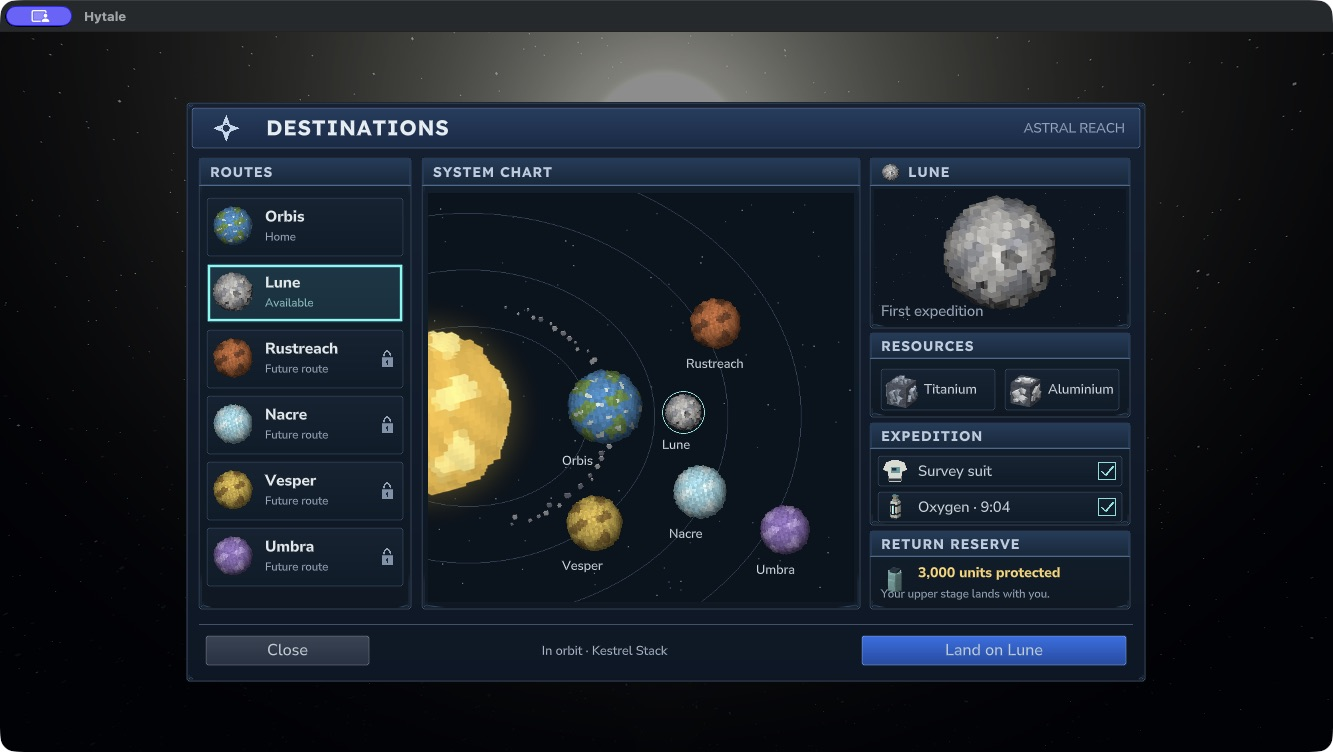
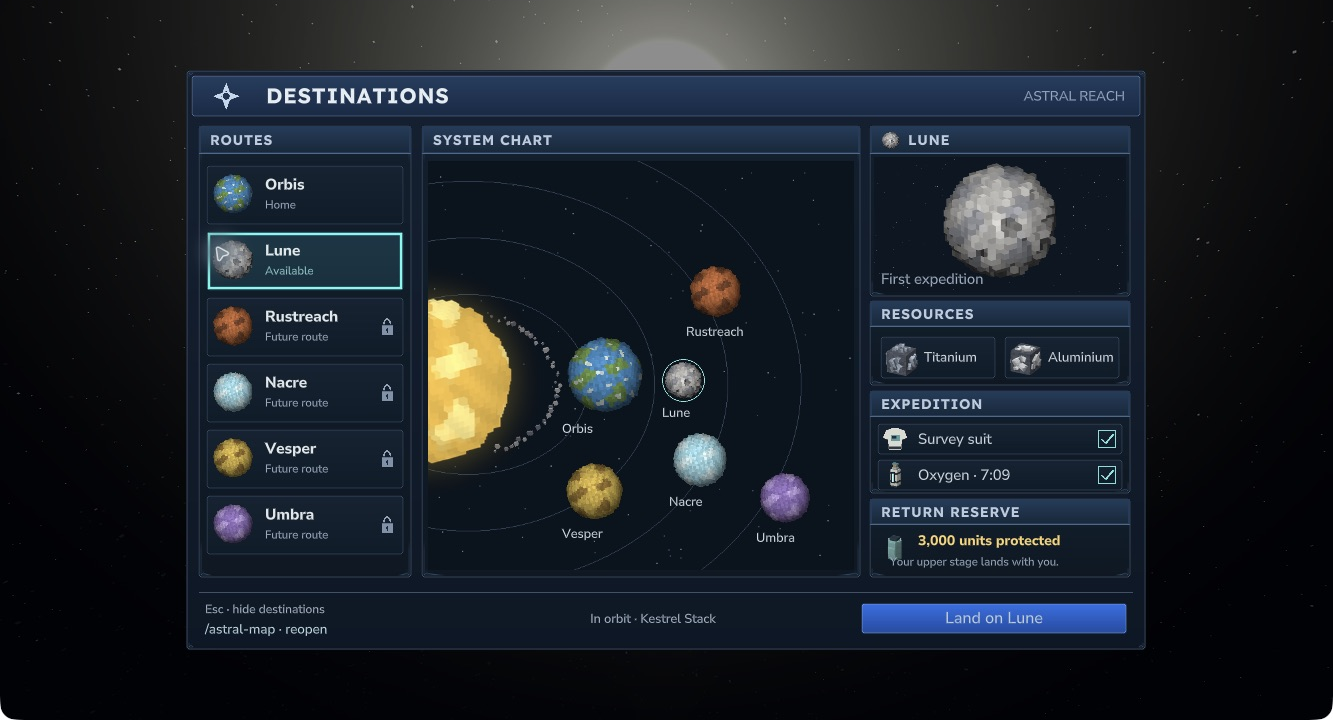
Show native rocket, lunar and workshop photographs with current navigation guidance

diff --git a/versions/hytale0.7/gallery.md b/versions/hytale0.7/gallery.md
@@ -4,38 +4,36 @@ title: "Native screenshots"
 
 # Native screenshots {#native-screenshots}
 
-These images show the development mod running in Hytale 0.7.4. Click a photograph to inspect it at full resolution. The rockets use their full native model size; the dimensions on [Rockets and scale](rockets.md) provide a shared scale without perspective distortion.
+These photographs show Astral Reach running in **Hytale 0.7.4**. Click an image to inspect its full resolution. The rockets use their complete native model size; [Rockets and scale](rockets.md) compares their dimensions directly.
 
 ## Full-size launchers {#full-size-launchers}
 
-<figure><a href="/assets/hytale0.7/screenshots/kestrel-full.png"><img src="/assets/hytale0.7/screenshots/kestrel-full.png" alt="Full-height Kestrel Stack and its launch platform"></a><figcaption>Kestrel Stack: 123.19 blocks high on a 25×25-block platform.</figcaption></figure>
+<figure><a href="/assets/hytale0.7/screenshots/astral-kestrel-launchpad.png"><img src="/assets/hytale0.7/screenshots/astral-kestrel-launchpad.png" alt="Full-height Kestrel Stack above its wide launch platform"></a><figcaption>Kestrel Stack: 123.19 blocks high on a 25×25-block platform. Nearby workshop equipment gives a useful size reference.</figcaption></figure>
 
-<figure><a href="/assets/hytale0.7/screenshots/odyssey-full.png"><img src="/assets/hytale0.7/screenshots/odyssey-full.png" alt="Full-height Odyssey Heavy on its launch platform"></a><figcaption>Odyssey Heavy: 97.33 blocks high, with a copper-orange core and ivory boosters.</figcaption></figure>
+<figure><a href="/assets/hytale0.7/screenshots/astral-odyssey-launchpad.png"><img src="/assets/hytale0.7/screenshots/astral-odyssey-launchpad.png" alt="Odyssey Heavy with its copper-orange core and ivory boosters"></a><figcaption>Odyssey Heavy: 97.33 blocks high, with its complete boosters and escape tower visible.</figcaption></figure>
 
-<figure><a href="/assets/hytale0.7/screenshots/kestrel-player-scale.png"><img src="/assets/hytale0.7/screenshots/kestrel-player-scale.png" alt="Player beside Kestrel's large lower stage"></a><figcaption>A player beside the lower stage. This is a perspective view; the scale diagram compares dimensions directly.</figcaption></figure>
+## Expedition workshop {#expedition-workshop}
 
-## Building and refuelling {#building-and-refuelling}
+The following Creative-mode display and recipe previews show the actual placed machines and native crafting screens. They illustrate appearance and controls rather than a complete survival walkthrough.
 
-<figure><a href="/assets/hytale0.7/screenshots/launch-blueprint.png"><img src="/assets/hytale0.7/screenshots/launch-blueprint.png" alt="Rocket blueprint and separate assembly console"></a><figcaption>Select a plan at the separate console to expose the ghost structure and exact material requirements.</figcaption></figure>
+<figure><a href="/assets/hytale0.7/screenshots/astral-workshop.png"><img src="/assets/hytale0.7/screenshots/astral-workshop.png" alt="Astral workbenches, oxygen equipment and fuel processors"></a><figcaption>Assembly, suit and masonry workbenches beside the Oxygen Collector and four fueled processors.</figcaption></figure>
 
-<figure><a href="/assets/hytale0.7/screenshots/launch-fireworks.png"><img src="/assets/hytale0.7/screenshots/launch-fireworks.png" alt="Fireworks marking completed rocket assembly"></a><figcaption>Completed assembly celebrates once with fireworks. The rocket still needs fuel.</figcaption></figure>
+<figure><a href="/assets/hytale0.7/screenshots/astral-suit-workbench.png"><img src="/assets/hytale0.7/screenshots/astral-suit-workbench.png" alt="Articulated arms, suit display and terminal on the Suit Workbench"></a><figcaption>The Suit Workbench surrounds its central suit display with six articulated service arms and a computer.</figcaption></figure>
 
-<figure><a href="/assets/hytale0.7/screenshots/flight-funded.png"><img src="/assets/hytale0.7/screenshots/flight-funded.png" alt="Native flight panel holding 8000 fuel"></a><figcaption>The funded flight panel: 8,000 fuel pays for the outbound journey and protected return.</figcaption></figure>
+<figure><a href="/assets/hytale0.7/screenshots/astral-suit-crafting.png"><img src="/assets/hytale0.7/screenshots/astral-suit-crafting.png" alt="Native suit crafting with three equipment tiers, oxygen canister and ingredients"></a><figcaption>Choose an equipment tier and inspect its component and oxygen requirements. Creative-mode recipe preview.</figcaption></figure>
 
-## Actual takeoff {#actual-takeoff}
+<figure><a href="/assets/hytale0.7/screenshots/astral-planetary-masonry.png"><img src="/assets/hytale0.7/screenshots/astral-planetary-masonry.png" alt="Planetary Masonry Bench screen with planet tabs and bricks, airlock and column recipes"></a><figcaption>Planet tabs group the available building recipes. A recipe tab does not unlock travel to that body. Creative-mode recipe preview.</figcaption></figure>
 
-<figure><a href="/assets/hytale0.7/screenshots/takeoff-start.png"><img src="/assets/hytale0.7/screenshots/takeoff-start.png" alt="Odyssey lifting clear of its native launch platform at sunset"></a><figcaption>An actual paid Odyssey takeoff from the locally tested launch-platform build, captured in Hytale 0.7.4. This earlier short departure predates the new smoke, engine-fire and extended-ascent prototype.</figcaption></figure>
+## Touch down on Lune {#touch-down-on-lune}
 
-<figure><a href="/assets/hytale0.7/screenshots/takeoff-ascent.png"><img src="/assets/hytale0.7/screenshots/takeoff-ascent.png" alt="Odyssey climbing higher above the launch site"></a><figcaption>A later frame from that same native departure. It demonstrates lift-off, while the new cinematic flight remains under development.</figcaption></figure>
+<figure><a href="/assets/hytale0.7/screenshots/astral-lune-landing.png"><img src="/assets/hytale0.7/screenshots/astral-lune-landing.png" alt="Kestrel upper stage grounded on Lune beneath a black sky and stars"></a><figcaption>An actual saved lunar landing, with the upper stage on terraced regolith beneath the stars. Passenger and landing presentation remain under refinement.</figcaption></figure>
 
-## Native orbital view {#native-orbital-view}
+<figure><a href="/assets/hytale0.7/screenshots/astral-lune-minerals.png"><img src="/assets/hytale0.7/screenshots/astral-lune-minerals.png" alt="Raised titanium and aluminium deposits against grey lunar terrain"></a><figcaption>Native raised mineral geometry on Lune. This close-up uses a Creative-mode mineral display.</figcaption></figure>
 
-<figure><a href="/assets/hytale0.7/screenshots/kestrel-orbit-sun.png"><img src="/assets/hytale0.7/screenshots/kestrel-orbit-sun.png" alt="Kestrel upper ship against a black star field and bright sun in Hytale"></a><figcaption>A native Hytale 0.7.4 orbital frame from the newer local flight build, captured after reloading a paid journey. This establishes the in-game sky and upper ship; the latest passenger attachment and lunar landing presentation remain under refinement.</figcaption></figure>
+## Navigation and assembly {#navigation-and-assembly}
 
-## The Lune route {#the-lune-route}
+<figure><a href="/assets/hytale0.7/screenshots/destinations-ui-private.png"><img src="/assets/hytale0.7/screenshots/destinations-ui-private.png" alt="Native top-down Destinations chart with Lune selected"></a><figcaption>Click a planet or route. The asteroid belt sits inside Orbis’s orbit. Esc hides navigation; /astral-map reopens it in orbit.</figcaption></figure>
 
-<figure><a href="/assets/hytale0.7/screenshots/lune-beacon.png"><img src="/assets/hytale0.7/screenshots/lune-beacon.png" alt="Return beacon on Lune's grey surface"></a><figcaption>The current destination is Lune. Its return beacon uses the saved home location.</figcaption></figure>
+<figure><a href="/assets/hytale0.7/screenshots/construction-ui-private.png"><img src="/assets/hytale0.7/screenshots/construction-ui-private.png" alt="Native launch construction panel with a rocket plan and material list"></a><figcaption>A separate assembly console shows the chosen blueprint and material contributions.</figcaption></figure>
 
-<figure><a href="/assets/hytale0.7/screenshots/lune-return.png"><img src="/assets/hytale0.7/screenshots/lune-return.png" alt="Lune return panel showing the protected return reserve"></a><figcaption>The protected 4,000-fuel return remains available after landing.</figcaption></figure>
-
-See [development status](status.md) for the new ascent candidate's verification gates and current gameplay limits.
+See [Rockets and scale](rockets.md) for launch cancellation and return-fuel controls, and [development status](status.md) for current limits.

diff --git a/versions/hytale0.7/rockets.md b/versions/hytale0.7/rockets.md
@@ -17,7 +17,7 @@ These ships are deliberately large. Plan the launch site around the complete sil
 
 A copper-orange core, two ivory strap-on boosters, crew capsule and escape tower give Odyssey its heavy-launcher silhouette. Its initial parts and fuel come from the home-world chain. It reaches the current paid Lune route without destination minerals.
 
-<figure><a href="/assets/hytale0.7/screenshots/odyssey-full.png"><img src="/assets/hytale0.7/screenshots/odyssey-full.png" alt="Odyssey Heavy's full 97-block native silhouette on the wide launch platform"></a><figcaption>Odyssey at its complete native height. The 25×25 pad and separate console sit beneath the engine cluster. Native launch-platform development capture, Hytale 0.7.4.</figcaption></figure>
+<figure><a href="/assets/hytale0.7/screenshots/astral-odyssey-launchpad.png"><img src="/assets/hytale0.7/screenshots/astral-odyssey-launchpad.png" alt="Odyssey Heavy's full 97-block native silhouette on the wide launch platform"></a><figcaption>Odyssey at its complete native height. The 25×25 pad and separate console sit beneath the engine cluster. Native launch-platform development capture, Hytale 0.7.4.</figcaption></figure>
 
 ## Kestrel Stack {#kestrel-stack}
 
@@ -25,11 +25,11 @@ Kestrel combines a silver booster with a dark-tiled orbital ship, broad flaps, u
 
 <figure><a href="/assets/hytale0.7/screenshots/kestrel-player-scale.png"><img src="/assets/hytale0.7/screenshots/kestrel-player-scale.png" alt="A player avatar standing near Kestrel's large lower stage and platform"></a><figcaption>A ground-level player reference beside the lower stage. Perspective makes nearby objects larger; use the dimension diagram above for a true shared scale.</figcaption></figure>
 
-The new flight candidate gives Kestrel a separate booster and upper ship. Its locally tested sequence shows separation in space, the booster's flip and home-pad landing, then the orbital ship in space before navigation opens. The latest 90-second flight adds a longer ballistic fall and braking approach. Human visual and comfort acceptance remain pending.
+The current flight gives Kestrel a separate booster and upper ship. Its locally tested sequence shows separation in space, the booster's flip and home-pad landing, then the orbital ship in space before navigation opens. The latest 90-second flight adds a longer ballistic fall and braking approach. Human visual and comfort acceptance remain pending.
 
 ## Current flight limits {#current-flight-limits}
 
-Both supported plans currently serve Lune. The spacecraft use decorative full-size exteriors and a compact control anchor; there is no walkable cabin or aerodynamic freeflight. Automatic passenger boarding and upper-stage landing are being tested in the latest candidate. The new third-person ascent and orbital-navigation candidate is described on [development status](status.md).
+Both supported plans currently serve Lune. The spacecraft use decorative full-size exteriors and a compact control anchor; there is no walkable cabin or aerodynamic freeflight. Automatic passenger boarding and upper-stage landing are being tested in the current implementation. The new third-person ascent and orbital-navigation candidate is described on [development status](status.md).
 
 The model workshop also contains the independent Kestrel upper ship, Peregrine explorer, Wren lander and additional infrastructure. Their presence in the art catalogue does not make them selectable playable vehicles. Peregrine is wider than the supported 25-block pad.
 
@@ -40,14 +40,14 @@ The redesigned **Destinations** screen becomes available after reaching space. S
 
 The interface uses a simple clickable top-down system chart. Select a planet directly or use the route list. There are no drag, pan, zoom or separate 3D controls.
 
-<figure><a href="/assets/hytale0.7/screenshots/destinations-ui-private.png"><img src="/assets/hytale0.7/screenshots/destinations-ui-private.png" alt="Native top-down Destinations panel with Lune selected"></a><figcaption>Current private interface in Hytale 0.7.4. The separate 3D option is removed; later routes remain disabled. Appearance review continues.</figcaption></figure>
+<figure><a href="/assets/hytale0.7/screenshots/destinations-ui-private.png"><img src="/assets/hytale0.7/screenshots/destinations-ui-private.png" alt="Native top-down Destinations panel with Lune selected"></a><figcaption>Native Hytale 0.7.4 interface. Click a body or route; later destinations remain locked. The belt sits inside Orbis’s orbit.</figcaption></figure>
 
 During a cancellable launch, the large red **ABORT LAUNCH** button stops the active departure and restores its reserved fuel. A local Hytale 0.7.4 test cancelled a real paid launch and returned all **9,000 units** to the rocket. The full tank persisted after a normal quit and reload.
 
-Close the screen to remain in orbit. `/astral-map` reopens navigation without charging more fuel. Closing navigation does not spend the return reserve.
+Press **Esc** to hide Destinations and remain in orbit. The footer explains how to reopen it: type **`/astral-map`**. A reminder appears when the map is hidden. Hiding or reopening navigation does not spend the return reserve.
 
-<figure><a href="/assets/hytale0.7/screenshots/abort-launch-ui-private.png"><img src="/assets/hytale0.7/screenshots/abort-launch-ui-private.png" alt="Large red ABORT LAUNCH button in native Hytale"></a><figcaption>Actual private Hytale 0.7.4 capture during a paid launch, with Abort highlighted. Selecting it returned the player home and restored the reserved fuel.</figcaption></figure>
+<figure><a href="/assets/hytale0.7/screenshots/abort-launch-ui-private.png"><img src="/assets/hytale0.7/screenshots/abort-launch-ui-private.png" alt="Large red ABORT LAUNCH button in native Hytale"></a><figcaption>Actual Hytale 0.7.4 capture during a paid launch, with Abort highlighted. Selecting it returned the player home and restored the reserved fuel.</figcaption></figure>
 
-The revised interface has representative native selection, clean item icons, construction, paid travel and cancellation checks on Hytale 0.7.4. Human appearance, comfort, listening and multiplayer acceptance remain open. Earlier gallery screenshots show the previous layout.
+The revised interface has representative native selection, clean item icons, construction, paid travel and cancellation checks on Hytale 0.7.4. Human appearance, comfort, listening and multiplayer acceptance remain open. The gallery includes current native workshop and lunar photographs.
 
 <figure><a href="/assets/hytale0.7/screenshots/flight-control-ui-private.png"><img src="/assets/hytale0.7/screenshots/flight-control-ui-private.png" alt="Flight Control after a cancelled launch and normal reload, with the full 9,000-unit tank"></a><figcaption>The full tank after cancelling the launch, saving and reloading. This local functional test used staged fuel and equipment; it does not establish a complete survival walkthrough.</figcaption></figure>

diff --git a/versions/hytale0.7/status.md b/versions/hytale0.7/status.md
@@ -4,6 +4,8 @@ title: "Development status"
 
 # Development status {#development-status}
 
+**Early development — some features may be incomplete or may not work as expected.** Astral Reach uses the Release channel on CurseForge so the experimental build is visible in the client.
+
 Astral Reach is a **development project for Hytale 0.7**. This guide describes the support branch and its known limits. Available files and their release notes are listed separately on [GitHub releases](https://github.com/jkswoods/astral-reach/releases).
 
 ## Established playable slice {#established-playable-slice}
@@ -16,11 +18,11 @@ The ships shown in the gallery retain their actual large dimensions. Current col
 
 Local Hytale 0.7.4 flights now show sustained third-person ascent, ignition smoke, engine fire, a fading atmosphere, stars and a bright sun. Kestrel separates its upper ship in space and returns its booster to the launch pad before orbital navigation. A later test extended that sequence to 90 seconds.
 
-The latest private interface uses a top-down system chart with clickable planets and route rows. There are no drag, pan, zoom or separate 3D controls. Lune remains reachable; later landing routes remain locked. Camera and passenger presentation still need polish.
+The revised interface uses a top-down system chart with clickable planets and route rows. There are no drag, pan, zoom or separate 3D controls. Lune remains reachable; later landing routes remain locked. Camera and passenger presentation still need polish.
 
 The earlier ignition crash has been repaired. New native tests have completed an upper-stage descent and touchdown on Lune, disembarkation, and the paid upper-stage ascent and home approach. The normal saved home state cleared the journey and spent its protected return reserve once. Broad crater basins, rolling regolith and the four revised raised mineral deposits have also been inspected in Hytale.
 
-**Passenger presentation remains under repair.** Players reported the character body lagging behind the ship, jitter on foot on Lune and weak-looking landing-leg connections. A duplicate ship above the landing site was reproduced; the repair passed a normal lunar reload with one ship. The latest candidate adds native acknowledged player movement, closer lunar landing sites and stronger hull-mounted landing gear. Its full flight, on-foot movement and final visual checks are still pending. Keep each candidate with its matching backup.
+**Passenger presentation remains under repair.** Players reported the character body lagging behind the ship, jitter on foot on Lune and weak-looking landing-leg connections. A duplicate ship above the landing site was reproduced; the repair passed a normal lunar reload with one ship. The latest candidate adds native acknowledged player movement, closer lunar landing sites and stronger hull-mounted landing gear. Broader flight, on-foot movement and final visual checks remain open. Keep each candidate with its matching backup.
 
 The candidate compiles against pinned 0.7.3 APIs and passes isolated asset, recipe, terrain and saved-state checks on 0.7.3 and 0.7.4. Those checks establish integration; they do not replace a complete in-game flight or human visual and listening acceptance.
 
@@ -38,8 +40,10 @@ Keep complete backups when trying a supplied candidate. Use [GitHub issues](http
 
 ## Revised native controls {#revised-native-controls}
 
-A private interface candidate adds a native destination list and clickable system chart, selected resource and equipment details, clear protected fuel, simpler construction and flight panels, per-canister diffuser charge bars and compact oxygen/flight displays. Later destinations remain locked. The separate 3D option has been removed; the top-down chart now fills its panel.
+The revised interface adds a native destination list and clickable system chart, selected resource and equipment details, clear protected fuel, simpler construction and flight panels, per-canister diffuser charge bars and compact oxygen/flight displays. Later destinations remain locked. The separate 3D option has been removed; the top-down chart now fills its panel.
 
-Representative native Hytale0.7.4 checks cover route-list and chart selection, disabled future routes, paid Lune travel and return, diffuser controls with partially used oxygen, paid service-part construction, flight-control access and normal saved reload. The latest private build also renders clean item icons without grey backplates, native tooltips, inset canister meters and the repaired Kestrel blueprint. A fresh test cancelled a real paid launch with the large red Abort button, returned all 9,000 fuel units and retained the full tank after a normal quit and reload. That check used staged parts, fuel and equipment.
+Representative native Hytale0.7.4 checks cover route-list and chart selection, disabled future routes, paid Lune travel and return, diffuser controls with partially used oxygen, paid service-part construction, flight-control access and normal saved reload. The revised interface also renders clean item icons without grey backplates, native tooltips, inset canister meters and the repaired Kestrel blueprint. A fresh test cancelled a real paid launch with the large red Abort button, returned all 9,000 fuel units and retained the full tank after a normal quit and reload. That check used staged parts, fuel and equipment.
 
 The latest native captures show stronger cyan selection, blue primary actions, deeper crater detail and a tighter blueprint summary. Both rocket illustrations and the missing-part construction panel were checked at playing scale and in matching enlarged views. The guide shows actual gameplay captures. Human appearance, comfort, listening and real multiplayer acceptance remain separate checks.
+
+The chart’s asteroid belt sits closer to the Sun, inside Orbis’s orbit. The landing note is inset from its frame. Press Esc to hide Destinations; the on-screen hint and dismissal reminder explain `/astral-map` to reopen it without spending fuel. These controls were checked in native Hytale 0.7.4.

diff --git a/versions/hytale0.7/machines.md b/versions/hytale0.7/machines.md
@@ -32,6 +32,18 @@ Flight control separates trip fuel from the suit and oxygen checklist. Before de
 
 The Oxygen Diffuser's panel displays four real canister slots with individual charge bars, the eight-block field radius, occupants and estimated field time at the current consumption rate. Use **Load one canister**, **Collect all** and **Switch on/off**. Make room for collected items; the panel does not bypass inventory limits.
 
-<figure><a href="/assets/hytale0.7/screenshots/diffuser-ui-private.png"><img src="/assets/hytale0.7/screenshots/diffuser-ui-private.png" alt="Native oxygen diffuser with one partially used canister, its charge bar and field estimate"></a><figcaption>Current private Hytale 0.7.4 interface using a real partially used canister. The field estimate changes with its charge and occupants.</figcaption></figure>
+<figure><a href="/assets/hytale0.7/screenshots/diffuser-ui-private.png"><img src="/assets/hytale0.7/screenshots/diffuser-ui-private.png" alt="Native oxygen diffuser with one partially used canister, its charge bar and field estimate"></a><figcaption>Native Hytale 0.7.4 interface using a real partially used canister. The field estimate changes with its charge and occupants.</figcaption></figure>
 
-The revised panels are being tested on the development support branch. Downloaded files may contain the earlier layout; check the chosen file's release notes.
+Choose a file whose release notes include the interface and features you need. Suit, oxygen and flight presentation are still being refined.
+
+## Expedition workbenches {#expedition-workbenches}
+
+Use the **Suit Workbench** to browse the Survey, Thermal and Deep Space equipment tiers and inspect their ingredient requirements. Prepare the full suit and a charged oxygen canister before leaving breathable air. The **Oxygen Collector** fills portable canisters in breathable environments; the diffuser uses stored oxygen to support its field.
+
+<figure><a href="/assets/hytale0.7/screenshots/astral-suit-workbench.png"><img src="/assets/hytale0.7/screenshots/astral-suit-workbench.png" alt="Suit Workbench with articulated service arms and a central suit"></a><figcaption>The placed Suit Workbench in Hytale 0.7.4. Creative-mode workshop display.</figcaption></figure>
+
+<figure><a href="/assets/hytale0.7/screenshots/astral-suit-crafting.png"><img src="/assets/hytale0.7/screenshots/astral-suit-crafting.png" alt="Native suit workbench tier tabs and canister recipe"></a><figcaption>Select a tier, then a recipe to inspect the actual ingredients. Creative-mode recipe preview.</figcaption></figure>
+
+The **Planetary Masonry Bench** groups bricks, columns and airlocks by planet. Bring the required planetary materials; the recipe tabs do not make future destinations playable.
+
+<figure><a href="/assets/hytale0.7/screenshots/astral-planetary-masonry.png"><img src="/assets/hytale0.7/screenshots/astral-planetary-masonry.png" alt="Planetary masonry tabs with Lune building recipes"></a><figcaption>Planetary masonry recipes in the native crafting screen. Creative-mode recipe preview.</figcaption></figure>

diff --git a/versions/hytale0.7/index.md b/versions/hytale0.7/index.md
@@ -6,6 +6,8 @@ title: "Astral Reach"
 
 ![Astral Reach — build the next voyage](/assets/hytale0.7/brand/banner-cinematic-v2.png)
 
+**Early development — some features may be incomplete or may not work as expected.** Read the selected file’s notes and back up your world and player data before upgrading.
+
 <p class="mod-lead">Gather resources, build full-size rockets and use finite fuel for a paid expedition to Lune.</p>
 
 <div class="ar-stats"><div class="ar-stat"><strong>123.19</strong><span>blocks tall · Kestrel Stack</span></div><div class="ar-stat"><strong>25 × 25</strong><span>blocks · joined launch platform</span></div><div class="ar-stat"><strong>8,000</strong><span>finite fuel units · first round trip</span></div></div>

diff --git a/versions/hytale0.7/installation.md b/versions/hytale0.7/installation.md
@@ -4,6 +4,8 @@ title: "Installation"
 
 # Installation {#installation}
 
+**Early development — some features may be incomplete or may not work as expected.** Read the selected file’s notes and back up your world and player data before upgrading.
+
 This guide follows the **Hytale 0.7 support line**. Published files can lag behind branch changes; read the chosen file’s release notes for the features it includes.
 
 This guide covers Astral Reach development on the **Hytale 0.7** support line. It compiles against the official 0.7.3 server APIs; local gameplay checks use the 0.7.4 client. Other patches in the 0.7 family have not all been tested. A dedicated server needs Java 25.
